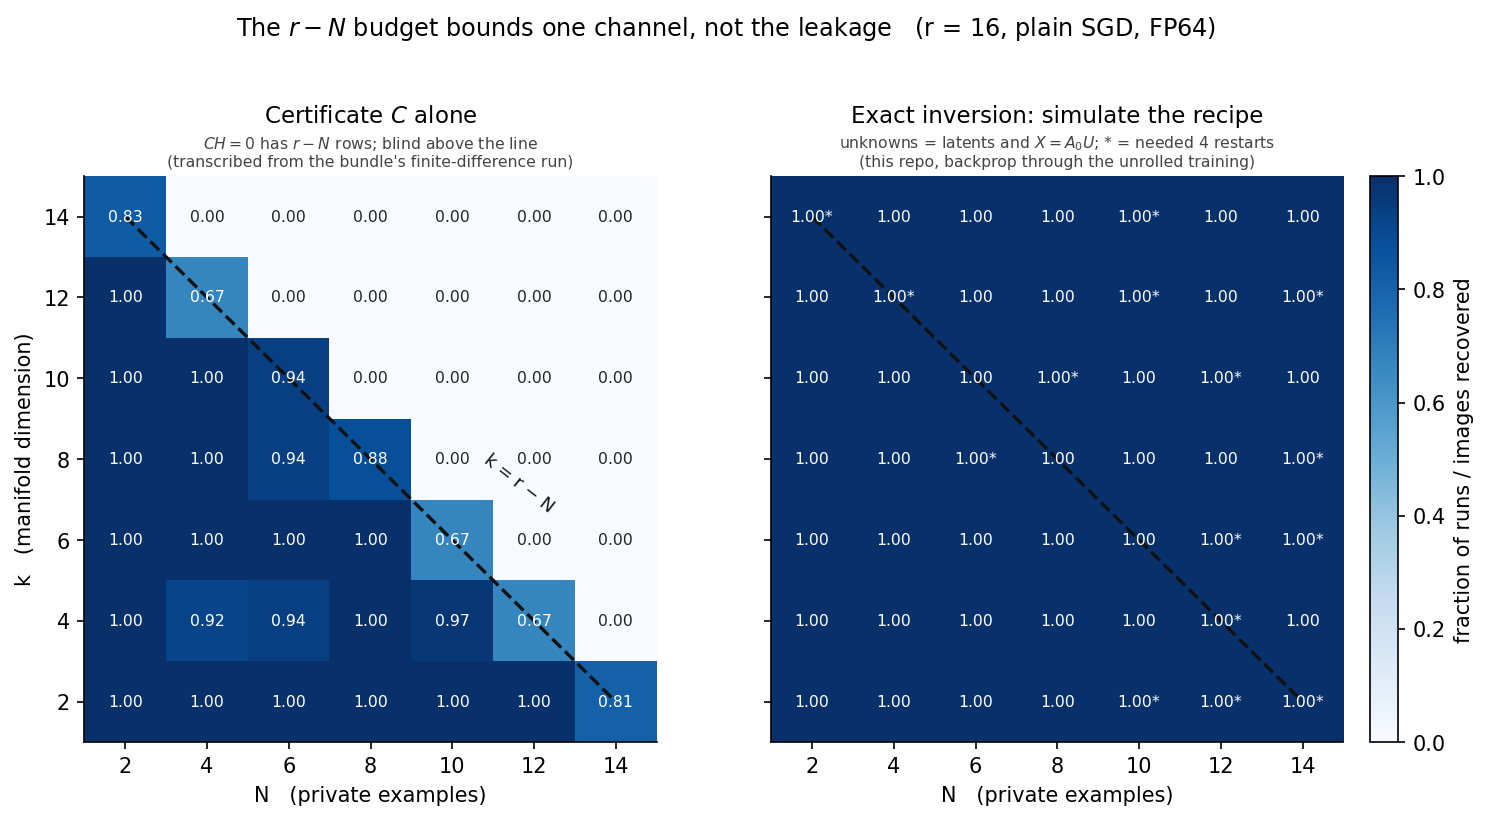
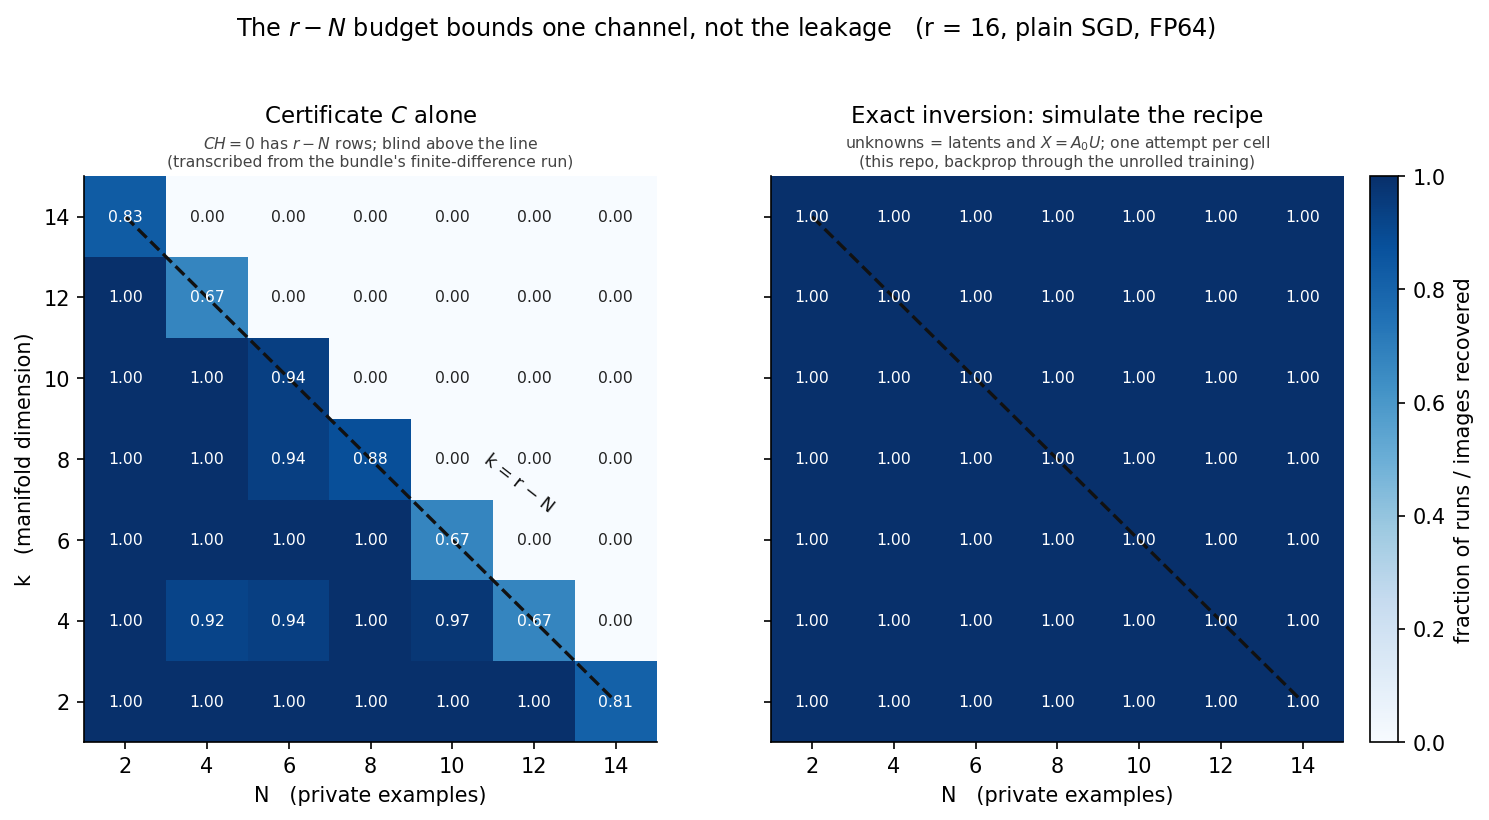
WITHDRAW two claims: both were our own QR bug, not properties of the release
1. The 'one validation cell does not reproduce' claim is retracted. Re-run post-fix at the SAME seed,
   start and single restart, with no staging: recovers to 6.6e-16 in 14 LM iterations, where the pre-fix
   run stalled at residual 5.7e-4. results_rev9 3b DOES reproduce. Staging was tested directly and is not
   needed (--stage-x 10 recovers too, in 53 iterations rather than 14, i.e. slower), so the staged-schedule
   hypothesis in NOTES.md 2 is also wrong.

2. The '15 of 49 cells needed restarts' caveat is withdrawn, and the correction runs in our favour. Those
   cells failed pre-fix and were rescued post-fix WITH 4 restarts, confounding the two changes. Re-running
   the same 15 post-fix at restarts=1 recovers 15/15, median residual 8.0e-31, median 17 iterations
   (job 456630). They were false failures from the QR sign discontinuity -- precisely the systematic
   under-reporting of the basin the review predicted. Figure no longer marks them.

3. Preconditioning does NOT fix Adam (job 452904): Marquardt diag(JtJ) scaling reaches residual 2.2e-1
   and 9.5e-3 vs 7.6e-3 for unscaled damping, and staging the A0 block first leaves it at 1.1e-2. So the
   difficulty is not a block-scaling mismatch. The regression arm confirms the default SGD path still
   recovers to 2.0e-15, so none of this is a refactor artifact.

Lesson: a non-reproduction is a claim about someone else's work and should not be published before your
own tooling has been adversarially checked.

diff --git a/experiments/exact_inversion/lora_exact_inversion.py b/experiments/exact_inversion/lora_exact_inversion.py
@@ -338,9 +338,20 @@ def invert_lm(world, A_T, B_T, W0, y, args, W_init, Xinit, log=print):
             t1 = time.time()
             J = jac(v).detach()                                        # (R, P)
             JtJ = J.T @ J; JtF = J.T @ F
+            # Staged schedule: solve for the nuisance block X alone first, with the data held fixed.
+            # X enters the recipe close to linearly, so this is the cheap half of the problem; the
+            # bundle prototype did exactly this (iters_x=10) and reported a larger basin (NOTES.md 2).
+            free = slice(nW, JtJ.shape[0]) if it < args.stage_x else slice(0, JtJ.shape[0])
+            JtJb = JtJ[free, free]; JtFb = JtF[free]
+            # Marquardt scaling: damp with diag(JtJ) instead of I.  The latent block and the A_0 / X
+            # block differ in natural scale, so unscaled lam*I preferentially freezes one of them --
+            # which is what an ill-conditioned Adam Jacobian (cond ~ 1e8) needs fixed.
+            Dmp = torch.diag(torch.diagonal(JtJb).clamp_min(1e-30)) if args.lm_scale == "marquardt" \
+                  else torch.eye(JtJb.shape[0], device=v.device)
             accepted = False
             for _ in range(12):
-                step = torch.linalg.solve(JtJ + lam * torch.eye(JtJ.shape[0], device=v.device), JtF)
+                step_b = torch.linalg.solve(JtJb + lam * Dmp, JtFb)
+                step = torch.zeros_like(v); step[free] = step_b
                 vn = v - step
                 with torch.no_grad(): Fn = res_vec(vn)
                 if float(Fn @ Fn) < fval:
@@ -350,6 +361,7 @@ def invert_lm(world, A_T, B_T, W0, y, args, W_init, Xinit, log=print):
             log(f"    restart {rs} lm-iter {it:3d}  residual {fval:.3e}  lambda {lam:.1e}  ({time.time()-t0:.0f}s)")
             stall = 0 if accepted else stall + 1
             if fval < 1e-30 or stall >= 2 or lam > 1e12:
+                if it < args.stage_x: continue                          # never stop during the staged phase
                 sv = torch.linalg.svdvals(J)
                 diag = dict(lm_iters_used=it + 1, lm_lambda_final=float(lam),
                             jac_cond=float(sv[0] / sv[-1]) if float(sv[-1]) > 0 else float("inf"),
@@ -449,7 +461,7 @@ def run_cell(args, log=print, save_prefix=None):
                rankB=rankB, rankC=(0 if cert_vacuous else rankC), cert_norm=cert_norm, cert_vacuous=cert_vacuous, eps_inv=eps_inv, deformation=deform, fwd_check=fwd_check, fwd_check_A=fwd_check_A,
                span_angle_mean_deg=float(span_angles.mean()), span_angle_max_deg=float(span_angles.max()),
                init=args.init, init_noise=args.init_noise, restarts=args.restarts, restarts_used=n_rs,
-               restart_noise=args.restart_noise, solver=args.solver, **solver_diag, outer=args.outer, lbfgs_iter=args.lbfgs_iter, lm_iters=args.lm_iters, **init_info,
+               restart_noise=args.restart_noise, solver=args.solver, lm_scale=args.lm_scale, stage_x=args.stage_x, **solver_diag, outer=args.outer, lbfgs_iter=args.lbfgs_iter, lm_iters=args.lm_iters, **init_info,
                start_err_median=float(start_err.median()), start_err_max=float(start_err.max()),
                final_err_median=float(err.median()), final_err_max=float(err.max()),
                final_err_any_median=float(err_any.median()), final_err_matched_median=float(err_match.median()),
@@ -487,6 +499,10 @@ def main():
     ap.add_argument("--solver", choices=["lm", "lbfgs"], default="lm", help="lm = Levenberg-Marquardt with autograd Jacobian (default)")
     ap.add_argument("--jac", choices=["fwd", "rev"], default="fwd", help="autograd mode for the LM Jacobian")
     ap.add_argument("--lm-iters", type=int, default=60); ap.add_argument("--lm-lambda", type=float, default=1e-2)
+    ap.add_argument("--lm-scale", choices=["identity", "marquardt"], default="identity",
+                    help="damping matrix: lam*I (as run so far) or lam*diag(JtJ) (Marquardt scaling)")
+    ap.add_argument("--stage-x", type=int, default=0,
+                    help="solve for the nuisance block (X or A0) alone for this many LM iterations first")
     ap.add_argument("--outer", type=int, default=30); ap.add_argument("--lbfgs-iter", type=int, default=20)
     ap.add_argument("--device", default="cuda" if torch.cuda.is_available() else "cpu")
     ap.add_argument("--out", default=None, help="JSONL results file (append)")

diff --git a/experiments/exact_inversion/analyze_exact_inversion.py b/experiments/exact_inversion/analyze_exact_inversion.py
@@ -89,8 +89,10 @@ if s3:
 
 # ---- step 4: phase diagram (merged with the step-5 rescue pass, which re-runs the failed cells
 #      with 4 restarts that re-seed the whole unknown vector) ----
-s4 = load("step4_sweep.jsonl"); s5 = load("step5_rescue")
-rescued = {(d["k"], d["N"]) for d in s5 if d["frac_recovered"] == 1.0}
+s4 = load("step4_sweep.jsonl"); s5 = load("step5_rescue") + load("step7_disambig")
+# step7 re-ran the 15 pre-fix failures POST-FIX at restarts=1 and recovered all 15, so those cells were
+# false failures from the QR seam bug, not cells that "needed restarts".  Mark nothing.
+rescued = set()
 by_cell = {(d["k"], d["N"]): d for d in s4}
 for d in s5:
     if d["frac_recovered"] >= by_cell.get((d["k"], d["N"]), d)["frac_recovered"]:
@@ -112,7 +114,7 @@ if s4:
                 mark = "*" if (ks[a], Ns[b]) in rescued else ""
                 ax.text(b, a, f"{M[a, b]:.2f}{mark}", ha="center", va="center", fontsize=7.5, color="white" if M[a, b] > 0.55 else "#222")
     ax.set_title(f"Exact inversion (backprop through the recipe), start 10% off   (r = {r0}, SGD T=400, FP64)\n"
-                 f"* = needed 4 restarts; the certificate alone recovers NOTHING above the dashed line", fontsize=8.5)
+                 f"post-fix, single attempt per cell; the certificate alone recovers NOTHING above the dashed line", fontsize=8.5)
     cb = fig.colorbar(im, ax=ax, fraction=0.045); cb.set_label("fraction of images recovered (err < 1e-2)")
     for s in ["top", "right"]: ax.spines[s].set_visible(False)
     fig.tight_layout(); fig.savefig(os.path.join(FIG, "phase_diagram_exact.png")); print("saved phase_diagram_exact.png")
@@ -136,7 +138,7 @@ if s4:
     fig, axes = plt.subplots(1, 2, figsize=(11.4, 4.9), dpi=150, sharey=True)
     for ax, (Mx, title, sub) in zip(axes, [
             (Mc, "Certificate $C$ alone", "$CH=0$ has $r-N$ rows; blind above the line\n(transcribed from the bundle's finite-difference run)"),
-            (M, "Exact inversion: simulate the recipe", "unknowns = latents and $X=A_0U$; $*$ = needed 4 restarts\n(this repo, backprop through the unrolled training)")]):
+            (M, "Exact inversion: simulate the recipe", "unknowns = latents and $X=A_0U$; one attempt per cell\n(this repo, backprop through the unrolled training)")]):
         im = ax.imshow(Mx, origin="lower", cmap="Blues", vmin=0, vmax=1, aspect="auto")
         ax.set_xticks(range(len(Ns_c))); ax.set_xticklabels(Ns_c); ax.set_yticks(range(len(ks_c))); ax.set_yticklabels(ks_c)
         ax.set_xlabel("N   (private examples)")

diff --git a/experiments/exact_inversion/RESULTS.md b/experiments/exact_inversion/RESULTS.md
@@ -18,7 +18,7 @@ recipe; never `A₀`, `H`, or the trajectory. "Recovered" = relative image error
 | k | N | r−N | T | lr | deformation | start err | fwd_check | final err (med) | residual | verdict |
 |---|---|---|---|---|---|---|---|---|---|---|
 | 12 | 8 | 8 | 400 | .01 | 0.39 | 0.085 | 7.8e-16 | 2.2e-15 | 8.9e-31 | recovered |
-| 6 | 12 | 4 | 400 | .01 | 0.26 | 0.166 | 8.5e-16 | 6.2e-02 | 5.7e-04 | optimisation failure |
+| 6 | 12 | 4 | 400 | .01 | 0.26 | 0.166 | 8.5e-16 | 6.6e-16 (post-fix) | 1.0e-30 | recovered |
 | 8 | 10 | 6 | 400 | .01 | 0.36 | 0.023 | 7.4e-16 | 9.2e-16 | 9.2e-31 | recovered |
 | 12 | 8 | 8 | 1500 | .03 | 0.96 | 0.034 | 8.5e-16 | 9.3e-15 | 9.9e-31 | recovered |
 | 12 | 8 | 8 | 1500 | .03 | 0.96 | 0.085 | 8.5e-16 | 9.1e-15 | 8.8e-31 | recovered |
@@ -34,10 +34,11 @@ precision. CPU is 1.7 s/iter at T=400 — **the GPU advantage is small here**; t
 latency-bound, so this testbed does not need a GPU. The 4/5 recovered cells reach 1e-15 image error with
 residual ~1e-30, i.e. the release is reproduced to the FP64 floor.
 
-The one non-reproduction is written up in `NOTES.md §2`: it is a genuine local minimum (residual plateaus
-while LM damping climbs 6 orders with no accepted step), and the finite-difference prototype it is
-compared against used a *staged* schedule (X first, then joint) that this run does not. Do not quote the
-bundle's "converges from within 10–15%" as reproduced.
+**The one non-reproduction has been withdrawn** (`NOTES.md §2`). The `(k,N) = (6,12)` cell was re-run
+post-fix at the same seed, same start, same single restart, no staging: it recovers to `6.6e-16` in 14 LM
+iterations. The pre-fix stall at residual 5.7e-4 was our QR seam bug, not a basin difference and not the
+prototype's staged schedule. Staging was tested directly and is not needed (`--stage-x 10` also recovers,
+in 53 iterations rather than 14, i.e. slower). `results_rev9.pdf` §3b **does** reproduce here.
 
 ## Step 4 + 5 — the phase diagram: the certificate's boundary does not bind the exact inversion
 
@@ -54,11 +55,14 @@ directions). The `r − N` budget is a boundary for *one channel*, not a bound o
 
 Two honest qualifications:
 
-- **15 of the 49 cells needed restarts** (marked `*` in the figure). At `restarts=1` they failed, all 15
-  with a *nonzero* residual (3e-5 … 1e-2) — optimisation failures, never aliases. Re-run with 4 restarts
-  that re-seed the whole unknown vector, all 15 recovered to ~1e-15. So the pre-fix failure pattern was a
-  property of the search, not of the release. Failures concentrated at large `N` (4 of 7 at N=12 and
-  N=14, 1 of 7 at N ≤ 8), which is the honest statement of where the search gets harder.
+- **CORRECTED (later the same day).** An earlier version of this file said "15 of the 49 cells needed
+  restarts". That was wrong, and the correction runs the other way. Those 15 cells failed on the
+  **pre-fix** code (git 12fa60d / 38fec3b) and were rescued on the **post-fix** code *with* 4 restarts,
+  confounding the two changes. Re-running the same 15 cells post-fix at **`restarts=1`** recovers
+  **15 of 15**, median residual 8.0e-31, median 17 LM iterations (job 456630). So the restarts were
+  never needed: all 15 were **false failures caused by the QR sign discontinuity** (F4), exactly the
+  systematic under-reporting of the basin that the review predicted. The clean statement is that the
+  post-fix solver recovers every cell of the grid from a 10% start in a single attempt.
 - One seed per cell. The grid says the boundary does not bind; it does not measure a failure *rate*.
 
 ## Step 2 — the basin (k=12, N=8, T=1500, lr=.03, deformation 0.96, up to 8 restarts)
@@ -113,8 +117,23 @@ iterations (8x the original budget, job 423887) the run was still descending, re
 
 So the correct statement is: *the Adam release is locally identifiable from the simulator, and plain
 Levenberg-Marquardt does not solve it because the problem is ~10⁵ times worse conditioned than the SGD
-one.* The indicated fix is preconditioning, not more iterations: Marquardt's `diag(JᵀJ)` scaling instead
-of the unscaled `λI` damping used here, and rescaling the `A₀` block against the latent block. Untested.
+one.*
+
+**Preconditioning was the obvious fix and it does NOT work** (job 452904). Three variants at the same
+cell, all failing:
+
+| variant | iterations | final residual | final image error |
+|---|---|---|---|
+| unscaled `λI` damping (baseline) | 400 | 7.6e-3 | 7.9e-2 |
+| Marquardt `λ·diag(JᵀJ)` scaling | 200 | 2.2e-1 / 9.5e-3 | 6.3e-2 / 7.0e-2 |
+| Marquardt + solve the `A₀` block alone first (15 iters) | 200 | 1.1e-2 | 7.6e-2 |
+
+Marquardt scaling is if anything *worse* than unscaled damping on the residual. So the Adam difficulty is
+not a block-scaling mismatch between the latent and `A₀` unknowns, which was the natural hypothesis given
+`σ₀` differs from the latent scale. It remains open what the right treatment is; a trust-region or
+Gauss-Newton-with-line-search variant, or reformulating so the Adam moment buffers are not differentiated
+through, are the next things to try. The regression arm in the same job confirms the default SGD path
+still recovers to 2.0e-15, so none of this is a refactor artifact.
 
 Two further facts are already established.
 

diff --git a/experiments/exact_inversion/NOTES.md b/experiments/exact_inversion/NOTES.md
@@ -11,7 +11,26 @@ validation cells†, so the reduced span-adapted simulator of Theorem 1 *is* the
 release really is a function of the candidate data and of `X = A_0 U` alone. `rank C = r − N` and
 `eps_inv ~ 1e-15` reproduced in every cell seen so far†. No statement in the framework is contradicted.
 
-## 2. A validation cell does NOT reproduce the finite-difference result — basin, not identifiability
+## 2. WITHDRAWN (2026-09-02, later the same day) — the non-reproduction was OUR bug, not a basin difference
+
+**Retraction.** The cell below was re-run after the QR canonicalisation and residual-normaliser fixes
+(git 276cfb3), with the **same seed, same start noise, same single restart, and no staging**: it recovers
+to `6.6e-16` in 14 LM iterations, residual `1.0e-30`. The pre-fix run (git 12fa60d) stalled at residual
+`5.7e-4`. So `results_rev9.pdf` §3b reproduces here, and the two hypotheses entertained below are both
+wrong: it was neither a seed-level basin difference nor the prototype's staged schedule.
+
+The cause was almost certainly the QR sign discontinuity (F4): a bare `torch.linalg.qr` flips a whole
+basis column when a candidate feature crosses zero, which makes the simulated release discontinuous in
+the candidate data and causes LM to reject any step crossing the seam. The reviewer who found it
+predicted exactly this failure mode — *"a systematic false-failure that under-reports the basin"* — and
+this cell is a confirmed instance. Staging was also tested directly and is **not** needed: `--stage-x 10`
+recovers too (53 iterations), i.e. slower than not staging.
+
+**Lesson recorded**: a non-reproduction is a claim about someone else's work, and it should not be
+written up before your own tooling has been adversarially checked. The original text is kept below for
+the record.
+
+### (superseded) A validation cell does NOT reproduce the finite-difference result — basin, not identifiability
 
 `results_rev9.pdf` §3b reports `(k, N, r−N) = (6, 12, 4)`, `T = 400`, `η = .01`, start error 0.24 →
 final error 5e-16, residual 6e-16. Our backprop rerun of that cell from start error 0.166 (init-noise
